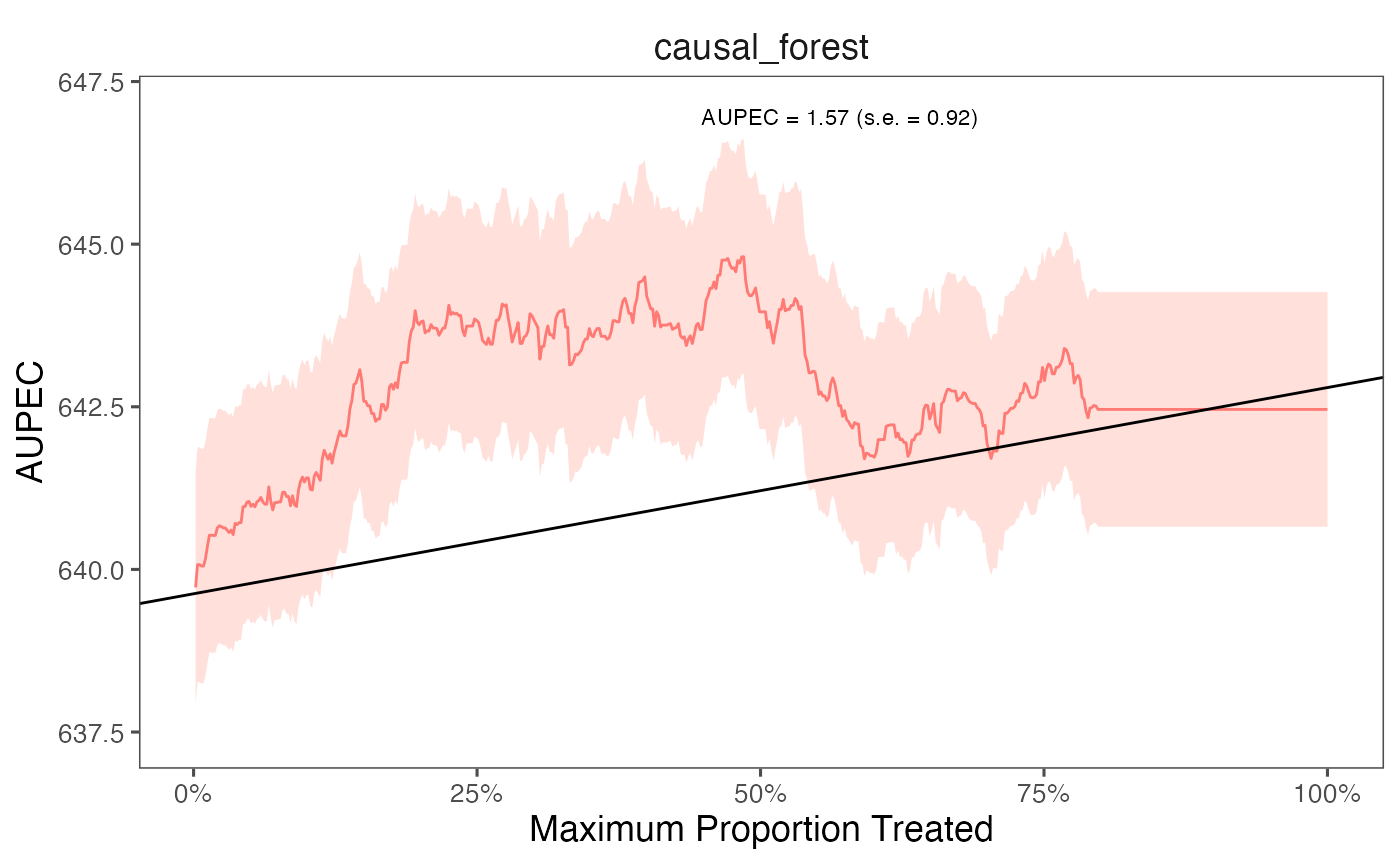
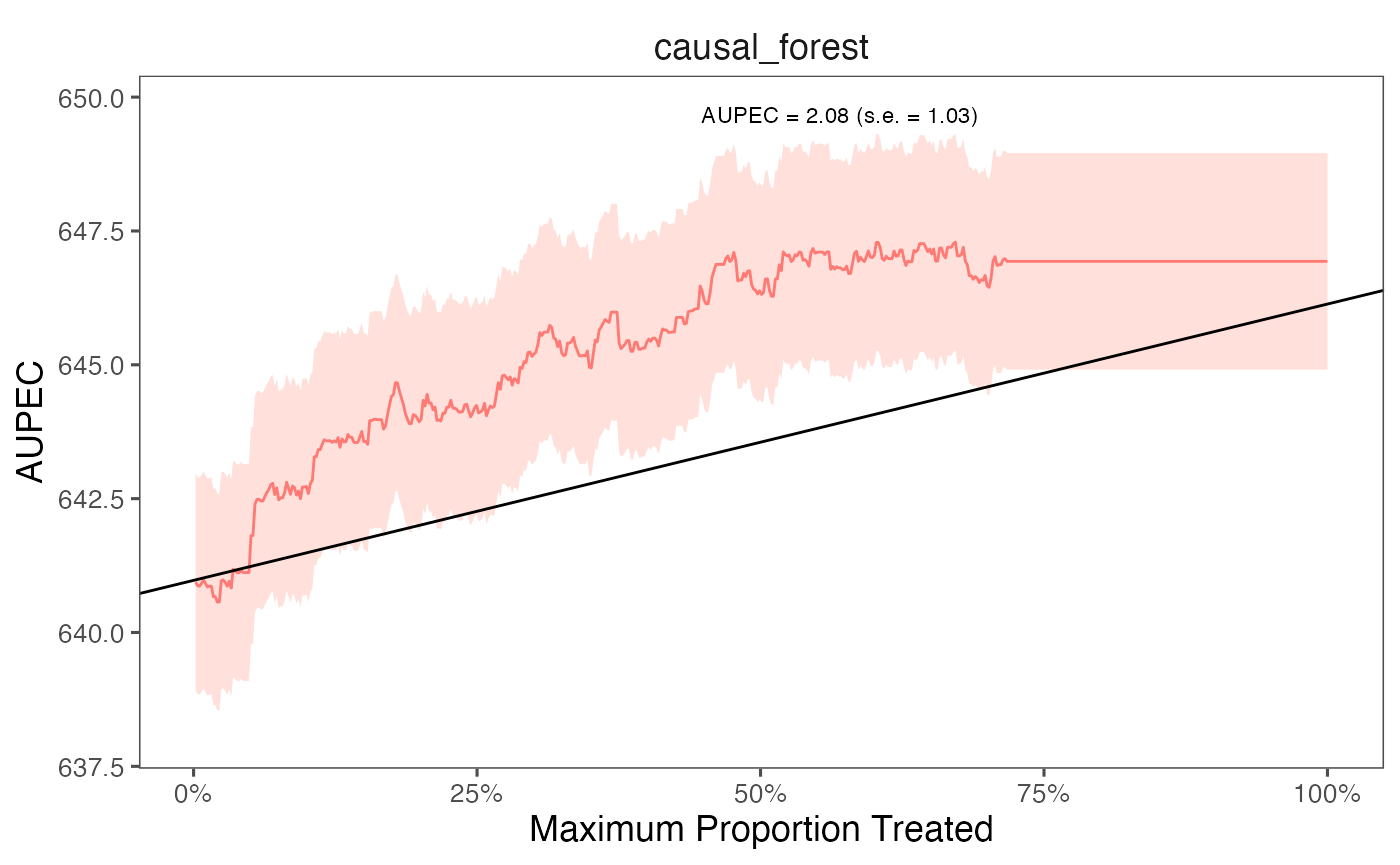
up

diff --git a/docs/articles/sample_split.html b/docs/articles/sample_split.html
@@ -153,26 +153,26 @@ in <a href="https://arxiv.org/abs/2203.14511" class="external-link">Imai and Li
 <span><span class="fu"><a href="https://rdrr.io/r/base/summary.html" class="external-link">summary</a></span><span class="op">(</span><span class="va">est</span><span class="op">)</span></span>
 <span><span class="co">#&gt; ── PAPE ────────────────────────────────────────────────────────────────────────</span></span>
 <span><span class="co">#&gt;   estimate std.deviation     algorithm statistic p.value</span></span>
-<span><span class="co">#&gt; 1     0.31           1.1 causal_forest      0.28    0.78</span></span>
+<span><span class="co">#&gt; 1      2.3           1.3 causal_forest       1.8    0.08</span></span>
 <span><span class="co">#&gt; </span></span>
 <span><span class="co">#&gt; ── PAPEp ───────────────────────────────────────────────────────────────────────</span></span>
 <span><span class="co">#&gt;   estimate std.deviation     algorithm statistic p.value</span></span>
-<span><span class="co">#&gt; 1      3.5           1.2 causal_forest       2.9  0.0034</span></span>
+<span><span class="co">#&gt; 1        2           1.3 causal_forest       1.5    0.14</span></span>
 <span><span class="co">#&gt; </span></span>
 <span><span class="co">#&gt; ── PAPDp ───────────────────────────────────────────────────────────────────────</span></span>
 <span><span class="co">#&gt; data frame with 0 columns and 0 rows</span></span>
 <span><span class="co">#&gt; </span></span>
 <span><span class="co">#&gt; ── AUPEC ───────────────────────────────────────────────────────────────────────</span></span>
 <span><span class="co">#&gt;   estimate std.deviation     algorithm statistic p.value</span></span>
-<span><span class="co">#&gt; 1      1.6          0.92 causal_forest       1.7   0.088</span></span>
+<span><span class="co">#&gt; 1      2.1             1 causal_forest         2   0.044</span></span>
 <span><span class="co">#&gt; </span></span>
 <span><span class="co">#&gt; ── GATE ────────────────────────────────────────────────────────────────────────</span></span>
 <span><span class="co">#&gt;   estimate std.deviation     algorithm group statistic p.value upper lower</span></span>
-<span><span class="co">#&gt; 1      1.6           108 causal_forest     1     0.015    0.99  -176   179</span></span>
-<span><span class="co">#&gt; 2     93.7           108 causal_forest     2     0.867    0.39   -84   272</span></span>
-<span><span class="co">#&gt; 3    -36.0           107 causal_forest     3    -0.335    0.74  -212   141</span></span>
-<span><span class="co">#&gt; 4     81.9           109 causal_forest     4     0.754    0.45   -97   260</span></span>
-<span><span class="co">#&gt; 5   -125.4           106 causal_forest     5    -1.179    0.24  -300    50</span></span></code></pre></div>
+<span><span class="co">#&gt; 1     -195           106 causal_forest     1    -1.836   0.066  -370   -20</span></span>
+<span><span class="co">#&gt; 2      -39           108 causal_forest     2    -0.360   0.719  -216   138</span></span>
+<span><span class="co">#&gt; 3      108           109 causal_forest     3     0.987   0.324   -72   288</span></span>
+<span><span class="co">#&gt; 4      162           109 causal_forest     4     1.482   0.138   -18   342</span></span>
+<span><span class="co">#&gt; 5      -10           108 causal_forest     5    -0.097   0.923  -188   167</span></span></code></pre></div>
 <p>We can extract estimates from the <code>est</code> object. The
 following code shows how to extract the GATE estimates for the writing
 score with <code>rlasso</code> and <code>lasso</code> algorithms.</p>

diff --git a/docs/articles/install.html b/docs/articles/install.html
@@ -87,13 +87,13 @@
 <span><span class="fu">devtools</span><span class="fu">::</span><span class="fu"><a href="https://remotes.r-lib.org/reference/install_github.html" class="external-link">install_github</a></span><span class="op">(</span><span class="st">"MichaelLLi/evalITR"</span>, ref <span class="op">=</span> <span class="st">"causal-ml"</span><span class="op">)</span></span>
 <span><span class="co">#&gt; Downloading GitHub repo MichaelLLi/evalITR@causal-ml</span></span>
 <span><span class="co">#&gt; </span></span>
-<span><span class="co">#&gt; * checking for file ‘/private/var/folders/1l/bh2tjl715bg2j4csgk_0mdf40000gn/T/RtmplLzcDg/remotes10558245b8593/MichaelLLi-evalITR-a129d30/DESCRIPTION’ ... OK</span></span>
+<span><span class="co">#&gt; * checking for file ‘/private/var/folders/1l/bh2tjl715bg2j4csgk_0mdf40000gn/T/RtmpEecITR/remotes10b7578246c23/MichaelLLi-evalITR-a129d30/DESCRIPTION’ ... OK</span></span>
 <span><span class="co">#&gt; * preparing ‘evalITR’:</span></span>
 <span><span class="co">#&gt; * checking DESCRIPTION meta-information ... OK</span></span>
 <span><span class="co">#&gt; * checking for LF line-endings in source and make files and shell scripts</span></span>
 <span><span class="co">#&gt; * checking for empty or unneeded directories</span></span>
 <span><span class="co">#&gt; * building ‘evalITR_0.3.0.tar.gz’</span></span>
-<span><span class="co">#&gt; Installing package into '/private/var/folders/1l/bh2tjl715bg2j4csgk_0mdf40000gn/T/RtmpiTmkrW/temp_libpathbb9057a9aa8'</span></span>
+<span><span class="co">#&gt; Installing package into '/private/var/folders/1l/bh2tjl715bg2j4csgk_0mdf40000gn/T/RtmpiTmkrW/temp_libpathbb9039b6ce2d'</span></span>
 <span><span class="co">#&gt; (as 'lib' is unspecified)</span></span></code></pre></div>
 <p>(Optional) if you have multiple cores, we recommendate using
 multisession futures and processing in parallel. This would increase

diff --git a/docs/reference/AUPEC.html b/docs/reference/AUPEC.html
@@ -116,7 +116,7 @@ Each step increases the budget by 1/n where n is the number of data points.</p><
 <span class="r-in"><span><span class="va">aupeclist</span><span class="op">$</span><span class="va">aupec</span></span></span>
 <span class="r-out co"><span class="r-pr">#&gt;</span> [1] -0.5820312</span>
 <span class="r-in"><span><span class="va">aupeclist</span><span class="op">$</span><span class="va">sd</span></span></span>
-<span class="r-out co"><span class="r-pr">#&gt;</span> [1] 0.7675804</span>
+<span class="r-out co"><span class="r-pr">#&gt;</span> [1] 0.767496</span>
 <span class="r-in"><span><span class="va">aupeclist</span><span class="op">$</span><span class="va">vec</span></span></span>
 <span class="r-out co"><span class="r-pr">#&gt;</span> [1]  0.59375 -0.87500 -0.65625 -0.12500 -0.15625 -0.62500 -1.40625 -1.40625</span>
 </code></pre></div>

diff --git a/docs/reference/consist.test.html b/docs/reference/consist.test.html
@@ -119,7 +119,7 @@ hypothesis (that the treatment effects are consistent)</p></dd>
 <span class="r-in"><span><span class="va">consisttestlist</span><span class="op">$</span><span class="va">stat</span></span></span>
 <span class="r-out co"><span class="r-pr">#&gt;</span> [1] 0.01949332</span>
 <span class="r-in"><span><span class="va">consisttestlist</span><span class="op">$</span><span class="va">pval</span></span></span>
-<span class="r-out co"><span class="r-pr">#&gt;</span> [1] 0.6853</span>
+<span class="r-out co"><span class="r-pr">#&gt;</span> [1] 0.6964</span>
 </code></pre></div>
     </div>
   </main><aside class="col-md-3"><nav id="toc"><h2>On this page</h2>

diff --git a/docs/reference/consistcv.test.html b/docs/reference/consistcv.test.html
@@ -124,7 +124,7 @@ hypothesis (that the treatment effects are consistent)</p></dd>
 <span class="r-in"><span><span class="va">consisttestlist</span><span class="op">$</span><span class="va">stat</span></span></span>
 <span class="r-out co"><span class="r-pr">#&gt;</span> [1] 1.412451</span>
 <span class="r-in"><span><span class="va">consisttestlist</span><span class="op">$</span><span class="va">pval</span></span></span>
-<span class="r-out co"><span class="r-pr">#&gt;</span> [1] 0.1185</span>
+<span class="r-out co"><span class="r-pr">#&gt;</span> [1] 0.1168</span>
 </code></pre></div>
     </div>
   </main><aside class="col-md-3"><nav id="toc"><h2>On this page</h2>

diff --git a/docs/reference/AUPECcv.html b/docs/reference/AUPECcv.html
@@ -117,7 +117,7 @@ of AUPEC.</p></dd>
 <span class="r-in"><span><span class="va">aupeclist</span><span class="op">$</span><span class="va">aupec</span></span></span>
 <span class="r-out co"><span class="r-pr">#&gt;</span> [1] -1.171875</span>
 <span class="r-in"><span><span class="va">aupeclist</span><span class="op">$</span><span class="va">sd</span></span></span>
-<span class="r-out co"><span class="r-pr">#&gt;</span> [1] 1.511506</span>
+<span class="r-out co"><span class="r-pr">#&gt;</span> [1] 1.509393</span>
 </code></pre></div>
     </div>
   </main><aside class="col-md-3"><nav id="toc"><h2>On this page</h2>
